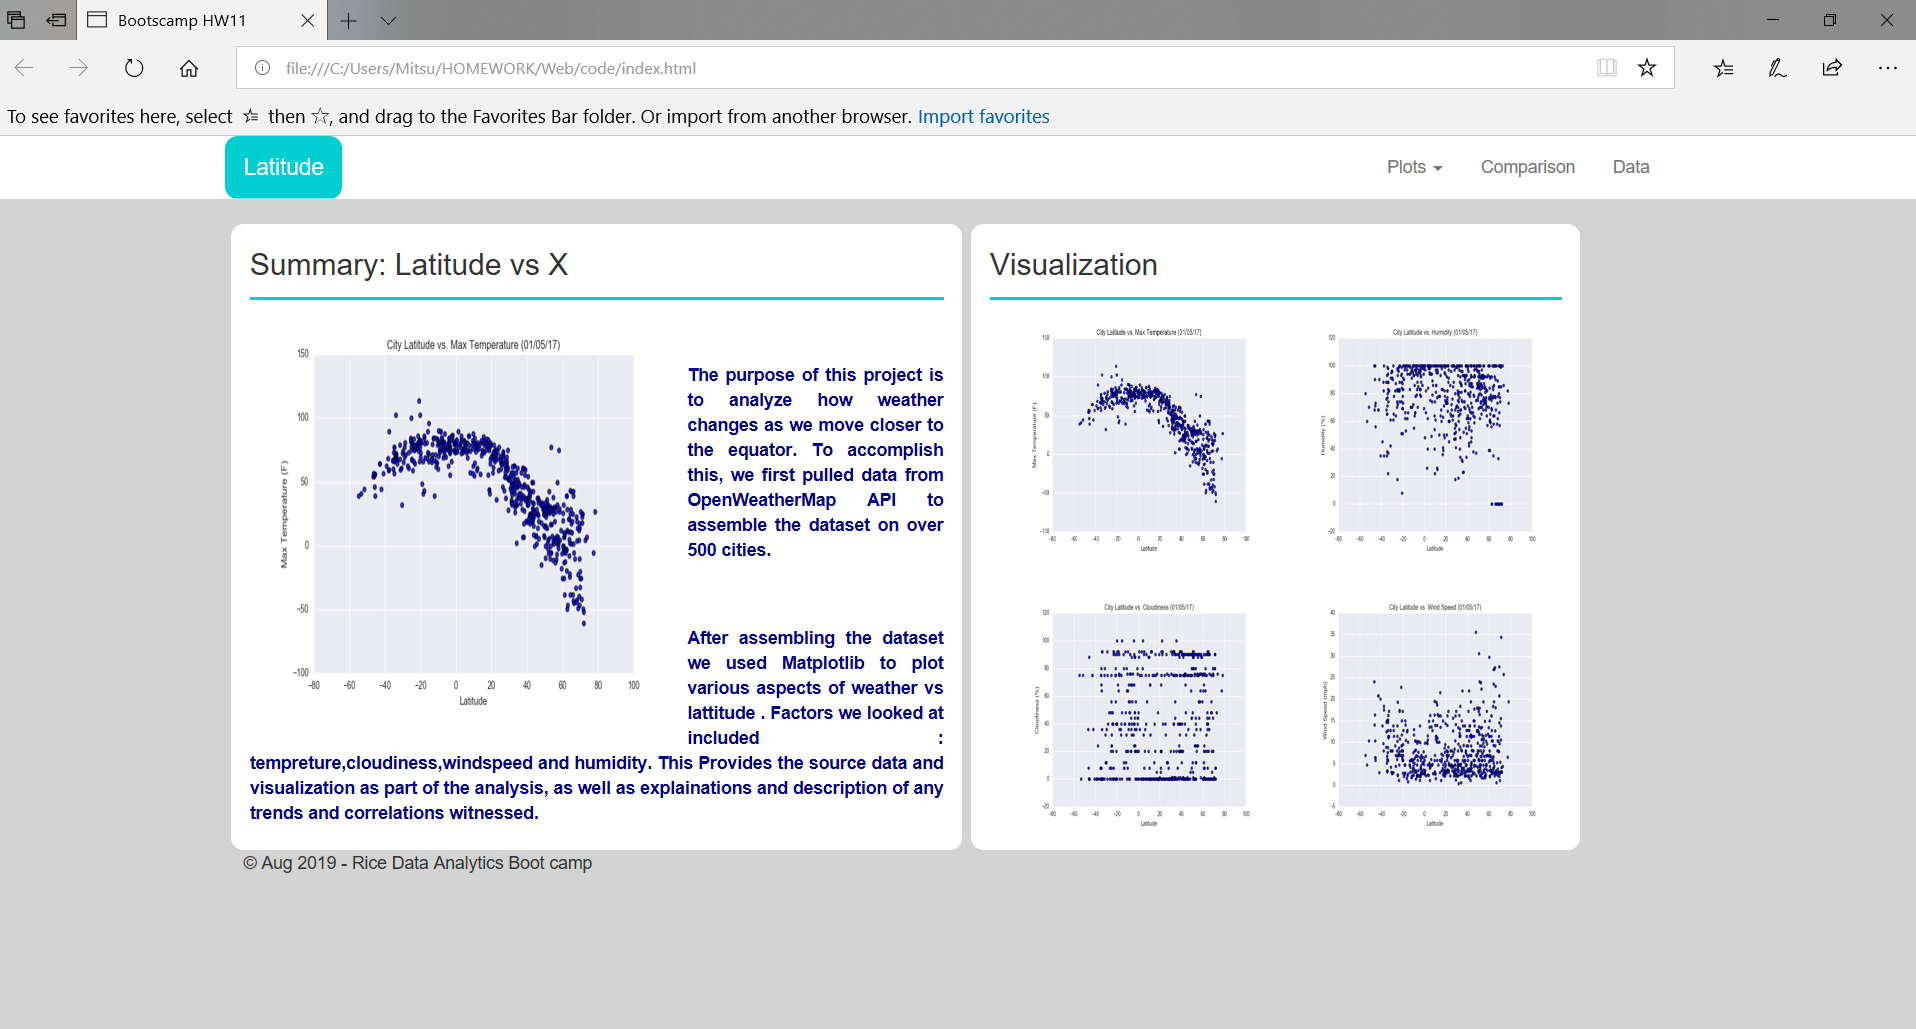
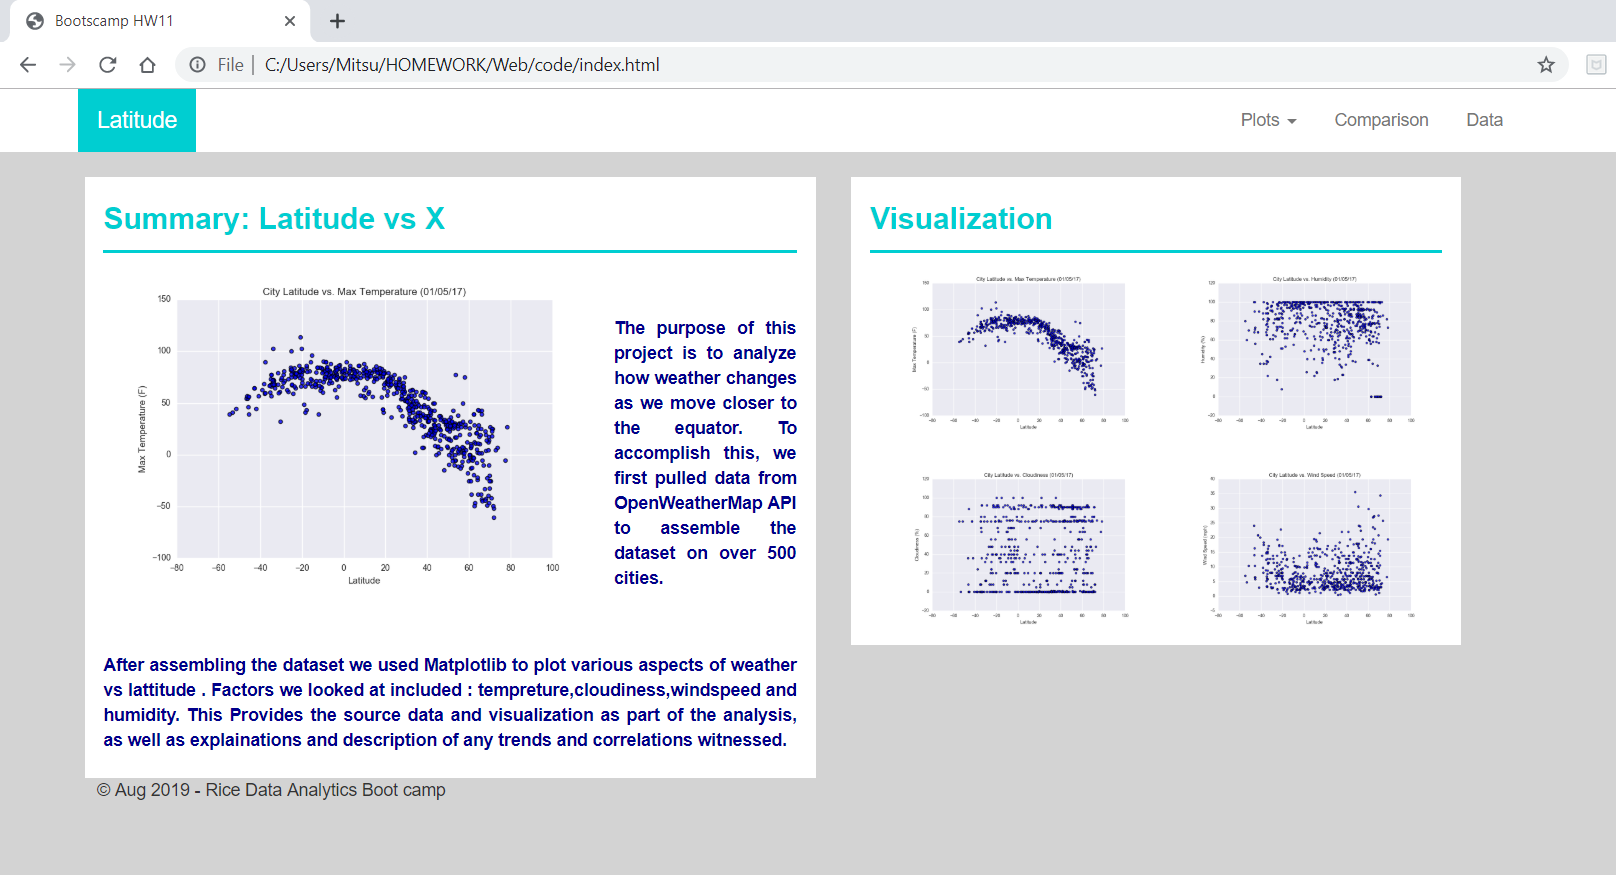
final version of code + screen capture

diff --git a/code/Comparison.html b/code/Comparison.html
@@ -64,26 +64,26 @@
                         <div class ="figure col-md-12">
                             <h3 class="page_title">Visualization</h3>
                             <div class="horizontal_line"> </div>
-                            <h5 class="comp_comment">Click on any plot to get an in-depth analysis</h5>
+                            <h5 class="text comp_comment">Click on any plot to get an in-depth analysis</h5>
                             <div class ="col-sm-4 col-md-6">
                                 <figure>
                                     <h3 class="comp_fig_title">vs Max. temperature</h3>
-                                    <a href="MaxTemp.html"><img  src="../Resources/assets/images/Fig1.png" alt="..."  style="width: 100%" align = "left" hspace = 10 vspace =10></a>
+                                    <a href="MaxTemp.html"><img  src="../Resources/assets/images/Fig1.png" alt="..."  style="width: 90%" align = "left" hspace = 10 vspace =10></a>
                                 </figure>
                                 <figure>
                                     <h4 class="comp_fig_title">vs Cloudiness</h4>
-                                    <a href="Cloudiness.html"><img  src="../Resources/assets/images/Fig3.png" alt="..."  style="width: 100%" align = "left" hspace = 10 vspace =10></a>
+                                    <a href="Cloudiness.html"><img  src="../Resources/assets/images/Fig3.png" alt="..."  style="width: 90%" align = "left" hspace = 10 vspace =10></a>
                                 </figure>
                             </div> 
 
                             <div class ="col-sm-4 col-md-6">
                                     <figure>
                                          <h4 class="comp_fig_title">vs Humidity</h4>
-                                         <a href="Humidity.html"><img  src="../Resources/assets/images/Fig2.png" alt="..."  style="width: 100%" align = "left" hspace = 10 vspace =10></a>
+                                         <a href="Humidity.html"><img  src="../Resources/assets/images/Fig2.png" alt="..."  style="width: 90%" align = "left" hspace = 10 vspace =10></a>
                                     </figure>
                                     <figure>
                                          <h4 class="comp_fig_title">vs Wind speed</h4>
-                                         <a href="Wind_speed.html"><img  src="../Resources/assets/images/Fig4.png" alt="..."  style="width: 100%" align = "left" hspace = 10 vspace =10></a>
+                                         <a href="Wind_speed.html"><img  src="../Resources/assets/images/Fig4.png" alt="..."  style="width: 90%" align = "left" hspace = 10 vspace =10></a>
                                     </figure>
                                 </div>         
                             <!-- <div class =" figure2 col-md-6">

diff --git a/code/Humidity.html b/code/Humidity.html
@@ -52,18 +52,19 @@
 
                
                <div class="white_background  container">
-                  <h3 class="page_title">Wind Speed</h3>
+                  <h3 class="page_title">Humidity</h3>
                   <div class="horizontal_line"> </div>
                       <div class="row">
                           <div class="col-md-11">
                                   <div class="thumbnail">
                                       <a href="Humidity.html">
-                                        <img class="img-responsive"  src="../Resources/assets/images/Fig2.png" alt="..."  style="width: 100%" align = "left" hspace = 10 vspace =10> </a>   
-                                          <div class="caption">
-                                              <p class="bold">Analysis:</p>
-                                                  <p>Cloudiness and latitude are not correlated</p>
-                                                </div>
-                                      </div>
+                                        <img class="img-responsive"  src="../Resources/assets/images/Fig2.png" alt="..."  style="width: 90%" align = "left" hspace = 10 vspace =10> </a>   
+                                        <div>
+                                            <p class=" analysis bold">Analysis:</p>
+                                                  <p class = "text">Humidity and latitude are correlated</p>
+                                            </div>
+                                      
+                                          </div>
 
                         </div>
                     </div>

diff --git a/code/MaxTemp.html b/code/MaxTemp.html
@@ -52,17 +52,18 @@
 
                
                <div class="white_background  container">
-                  <h3 class="page_title">Wind Speed</h3>
+                  <h3 class="page_title">Max temperature</h3>
                   <div class="horizontal_line"> </div>
                       <div class="row">
                           <div class="col-md-11">
                                   <div class="thumbnail">
                                       <a href="MaxTemp.html">
-                                        <img class="img-responsive" src="../Resources/assets/images/Fig1.png" alt="..."  style="width: 100%" align = "left" hspace = 10 vspace =10></a>    
+                                        <img class="img-responsive" src="../Resources/assets/images/Fig1.png" alt="..."  style="width: 80%" align = "left" hspace = 10 vspace =10></a>    
                                           
-                                          <div class="caption">
-                                              <p>Analysis:</p>
-                                                  <p>Wind speed and latitude are not correlated</p>
+                                          <!-- <div class="caption"> -->
+                                            <div >
+                                              <p class=" analysis bold">Analysis:</p>
+                                                  <p class = "text">Max temperature and latitude are correlated</p>
                                                 </div>
                                       </div>
 

diff --git a/code/Cloudiness.html b/code/Cloudiness.html
@@ -52,17 +52,17 @@
 
                
                <div class="white_background  container">
-                  <h3 class="page_title">Wind Speed</h3>
+                  <h3 class="page_title">Cloudiness</h3>
                   <div class="horizontal_line"> </div>
                       <div class="row">
                           <div class="col-md-11">
                                   <div class="thumbnail">
                                       <a href="Wind_speed.html">
-                                          <img class="img-responsive"    src="../Resources/assets/images/Fig3.png" alt="..."  style="width: 100%" align = "left" hspace = 10 vspace =10></a>
+                                          <img class="img-responsive"    src="../Resources/assets/images/Fig3.png" alt="..."  style="width: 90%" align = "left" hspace = 10 vspace =10></a>
                                           
-                                          <div class="caption">
-                                              <p class="bold">Analysis:</p>
-                                                  <p>Cloudiness and latitude are not correlated</p>
+                                          <div >
+                                              <p class=" analysis bold">Analysis:</p>
+                                                  <p class = "text">Cloudiness and latitude are correlated</p>
                                                 </div>
                                       </div>
 

diff --git a/code/Wind_Speed.html b/code/Wind_Speed.html
@@ -58,10 +58,10 @@
                                             <img class="img-responsive"  src="../Resources/assets/images/Fig4.png" alt="Wind"  style="width: 90%" align = "left" hspace = 10 vspace =10></a>
                                             
                                             
-                                            <div class="caption">
-                                                <p>Analysis:</p>
-                                                    <p>Wind speed and latitude are not correlated</p>
-                                                  </div>
+                                            <div>
+                                                <p class=" analysis bold">Analysis:</p>
+                                                  <p class = "text">Wind speed and latitude are not correlated</p>
+                                                </div>
                                         </div>
 
                           </div>

diff --git a/code/style.css b/code/style.css
@@ -67,17 +67,18 @@ body{
     color:darkturquoise;
     border-radius:10;
     text-align: center;
-    margin-top: 50px;
-    margin-bottom: -10px;
+    margin-top: 8%;
+    margin-bottom: -0%;
+    margin-right: 1%;
     font-weight: 600;
-    font-size: 18px;
+    font-size: 110%;
 }
 
 .comp_comment
 {
-    margin-top: 30px;
-    margin-bottom: -5px;
-    margin-left: 30px;
+    margin-top: 3%;
+    margin-bottom: -2%;
+    margin-left: 1%;
 }
 
 .table
@@ -135,4 +136,14 @@ border: 0;
 {
   font-size: 150%;
   font-weight: 300;
+}
+
+.analysis
+{
+  margin-top:2%;
+}
+
+.text
+{
+  font-size:110%;
 }
